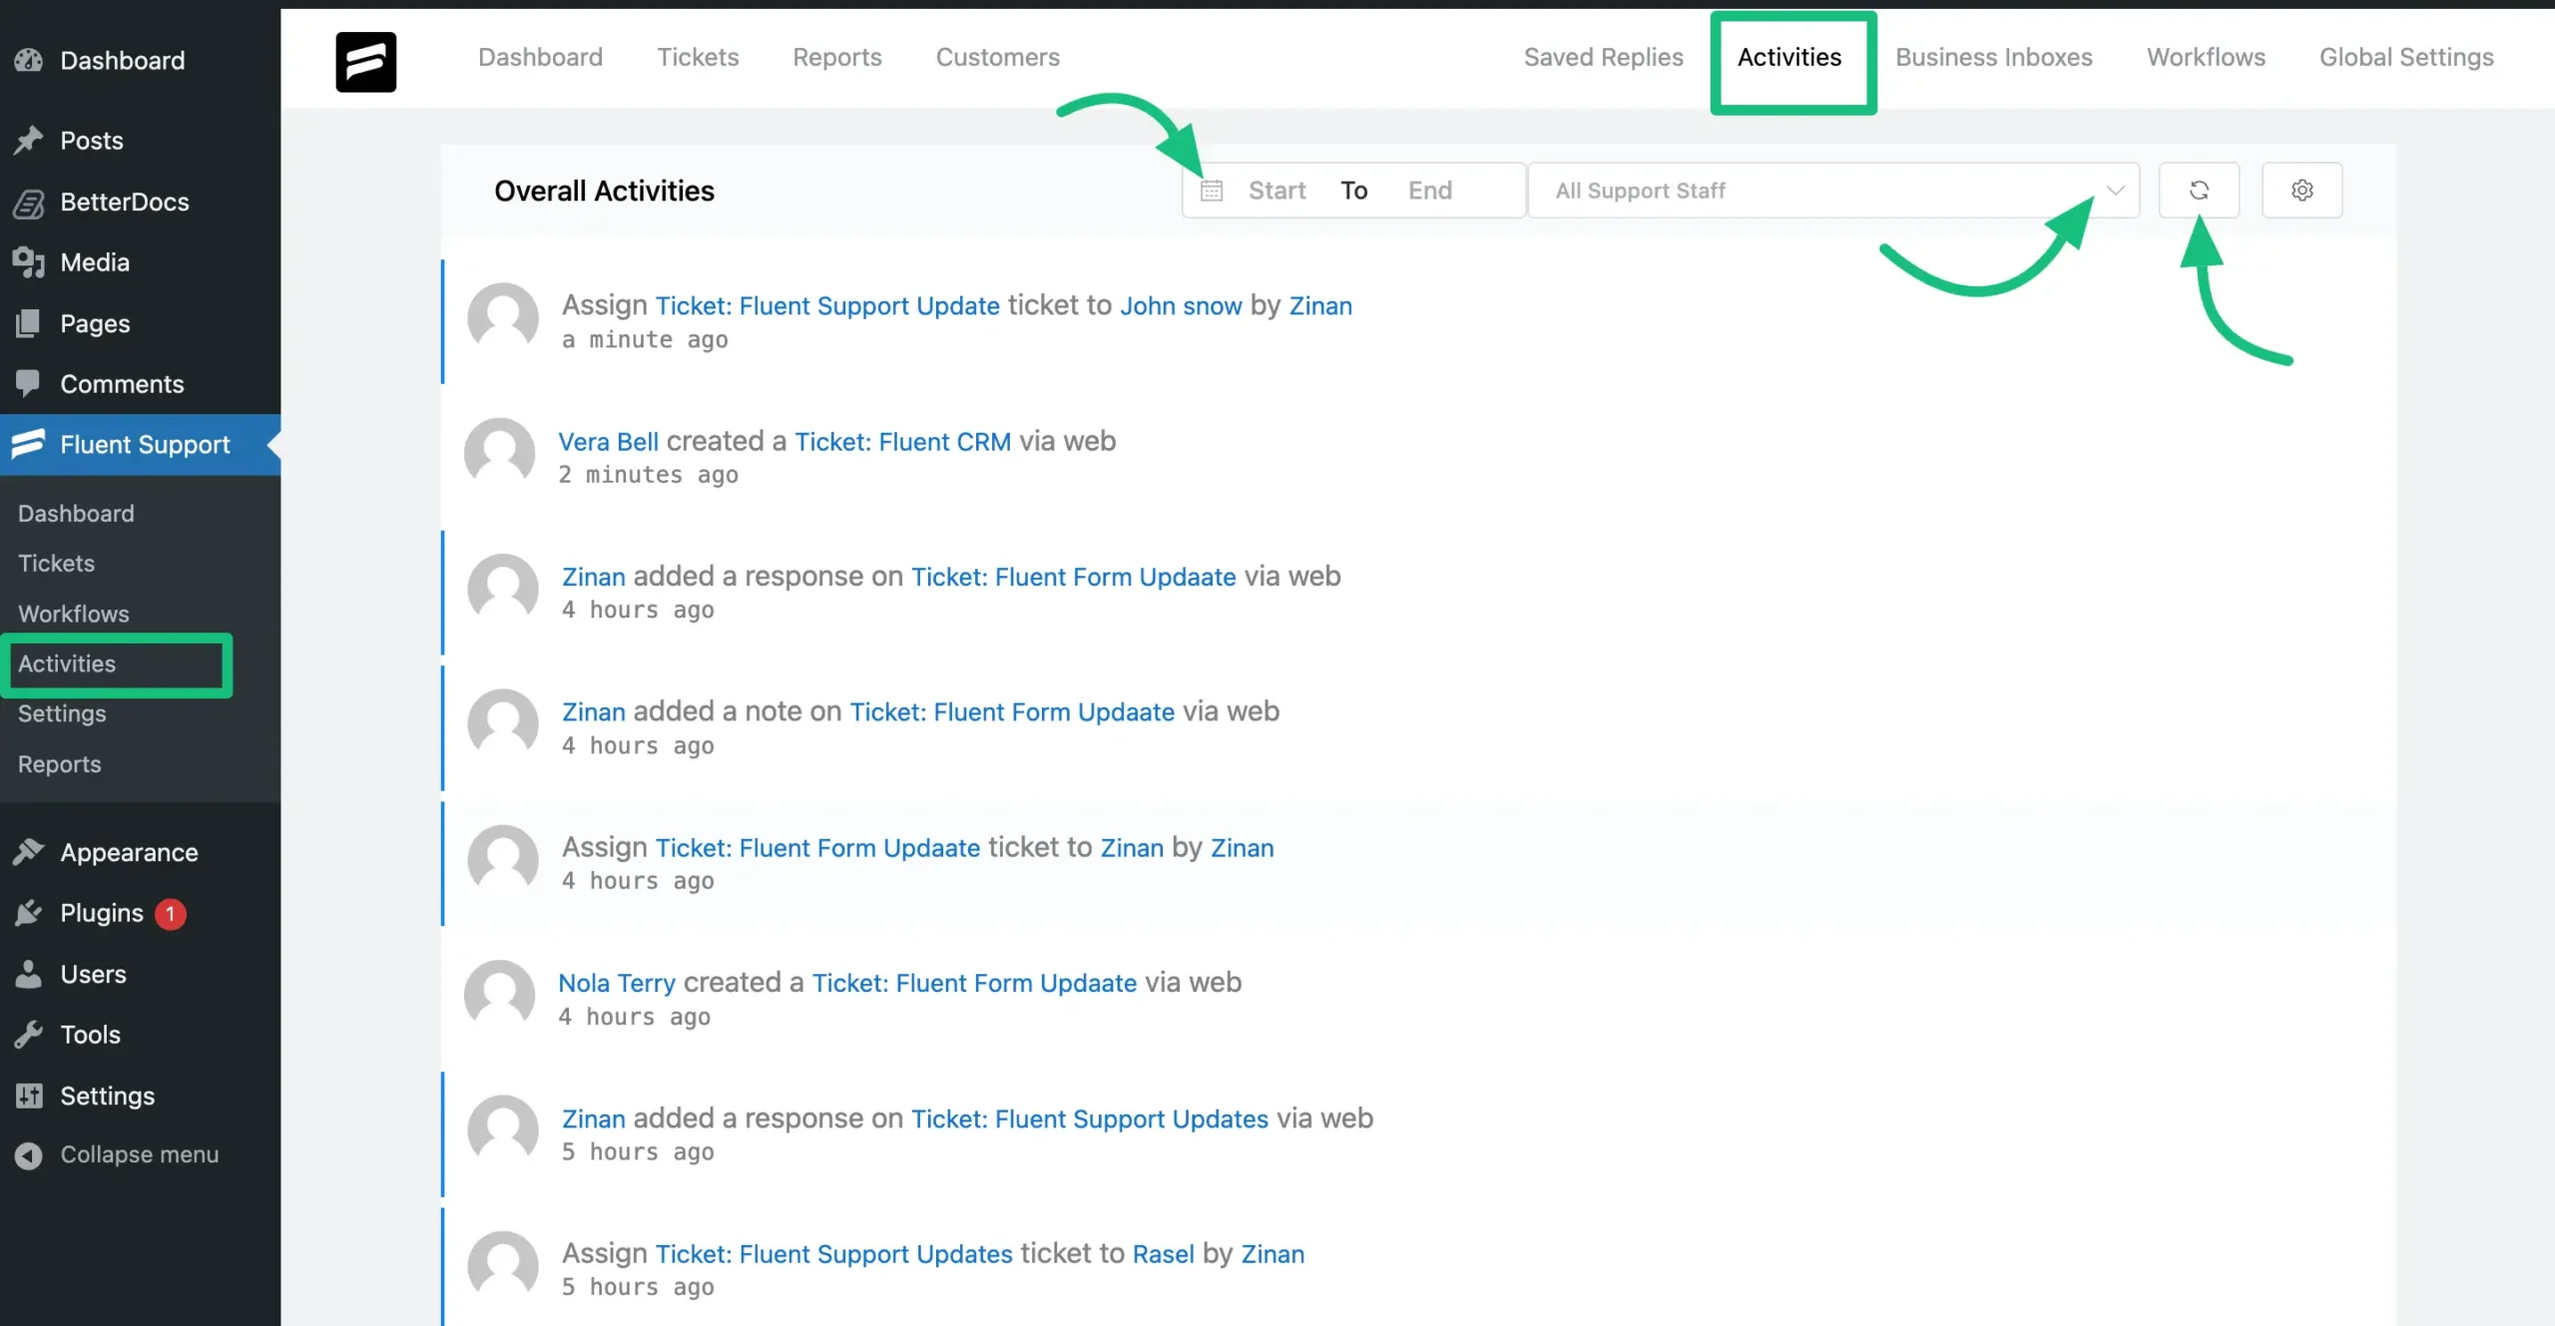
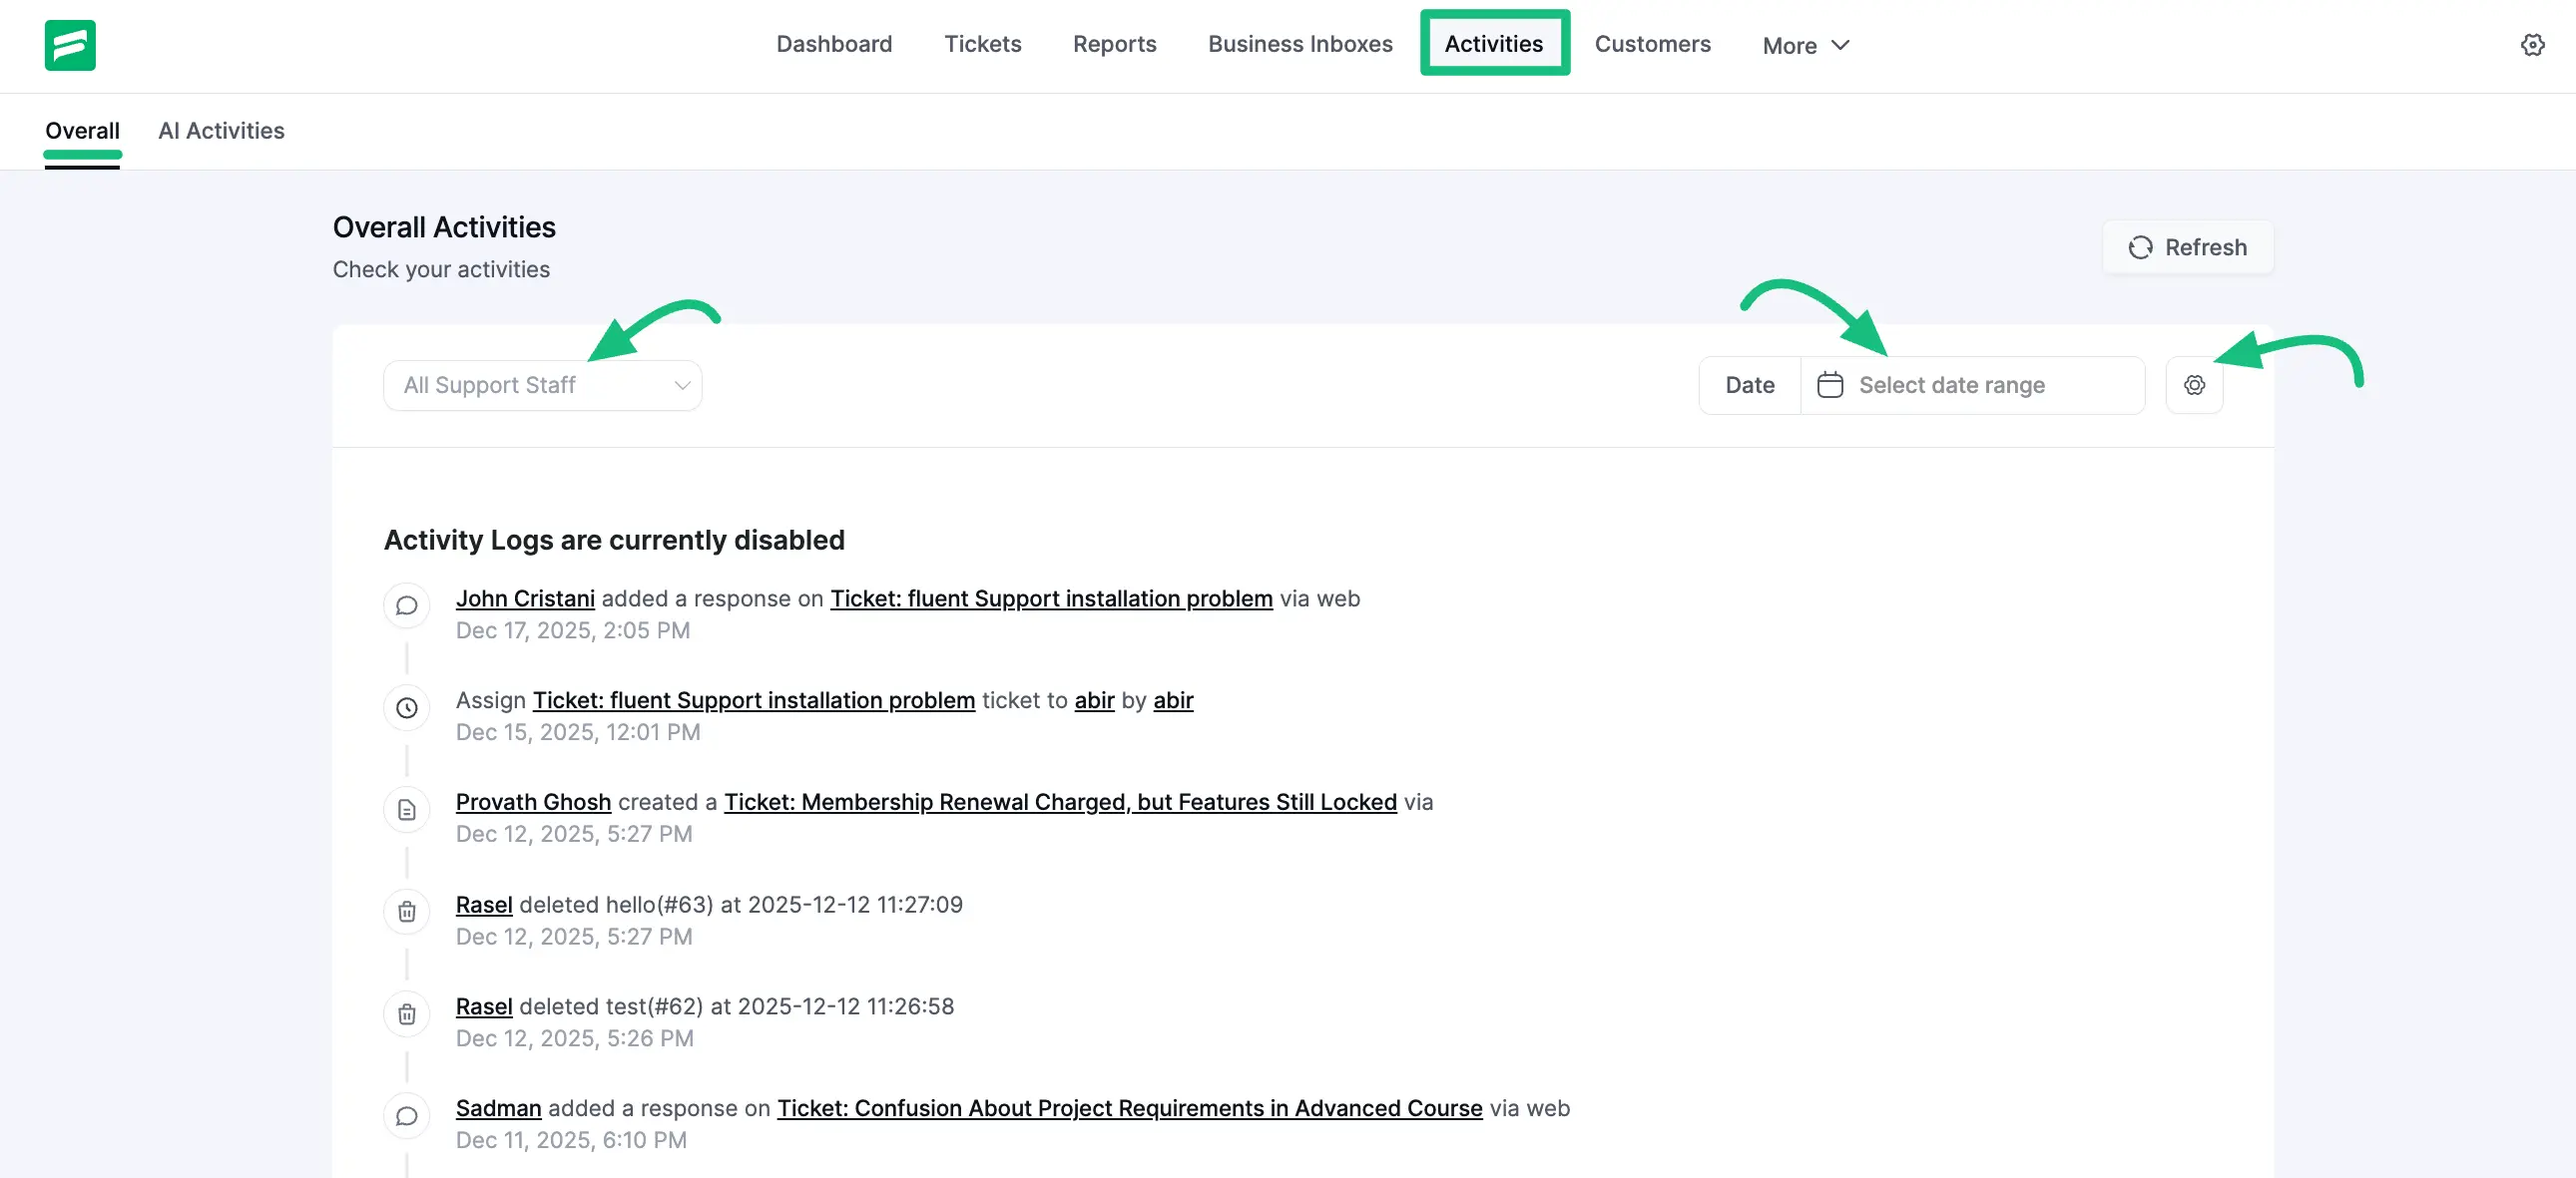
Overall Activities doc write

diff --git a/.vitepress/config.js b/.vitepress/config.js
@@ -159,7 +159,6 @@ export default defineConfig({
         text: 'Reports & Analytics',
         collapsed: true,
         items: [
-          { text: 'Dashboard Overview', link: '/guide/reports-analytics/dashboard-overview' },
           { text: 'Reports & Statistics', link: '/guide/reports-analytics/reports-and-stats' },
           { text: 'Overall Activities', link: '/guide/reports-analytics/overall-activities' },
           { text: 'Dynamic Dashboard', link: '/guide/reports-analytics/dynamic-dashboard' },

diff --git a/guide/reports-analytics/overall-activities.md b/guide/reports-analytics/overall-activities.md
@@ -4,26 +4,56 @@ The **“Activities”** is another awesome feature of Fluent Support that lets 
 
 ## An Overview of Activities
 
-You will find the “Activities” option from the top-right menu on your dashboard. This will display a timeline of overall activities (who created, replied to, or closed any ticket) in your support portal.
+You will find the **Activities** option in the top navigation menu of your dashboard. Clicking this opens the activity log, which is divided into two tabs: **Overall** and **AI Activities**.
 
-  * In this section, you can utilize the **Date** filter to view ticket statistics for a specific period.
-  * Also, you can use the **All Support Stuff** filter to select the individual agent’s ticket statistics you want to view.
-  * There, you will find a **Refresh** icon in the top right corner, use it to update ticket activity.
+### Overall Activities
+
+The **Overall** tab shows a timeline of actions in your support portal, such as who created, replied to, deleted, or closed a ticket, in the order they happened.
+
+ * **Filter by Agent:** You can use the **All Support Staff** dropdown menu to view ticket statistics for a specific agent.
+ * **Filter by Date:** Use the **Date** filter to view activities within a specific time range.
+ * **Refresh:** A Refresh button is located in the top right corner to update the activity feed instantly.
 
 Also, whenever an agent assigns a ticket, it will be displayed in the overall activities.
 
 ![Activities from Fluent Support Dashboard](/guide/public/images/reports-analytics/overall-activities/activities-dashboard-scaled-1.webp)
 
-### Settings
+### Activity Log Settings
 
-In the “Activities” section, you will find another **Settings** icon next to the Refresh button.
+You will find a **Settings** (Gear Icon) located next to the **Date filter** on the tabs. This allows you to configure how logs are handled.
 
-  * in this option, you can set the duration for automatically deleting activity logs.
-  * Also, you can **Disable Activity Logs** if you don’t want to track the activities of your support agents.
-  * Plus, you can select whether you want to open tickets on the existing page or a new tab.
-  * After making any changes, ensure you click on the **Update Settings** button. Otherwise, the changes won’t appear.
+In the Activity Log Settings, you have the following options:
+
+ * **Automatically delete activity logs after days:** Enter a number (e.g., 14) to set how long logs should be kept before being automatically deleted.
+ * **Disable Activity Logs:** Check this box if you do not want to track support agent activities at all.
+ * **Open Ticket in New Tab:** Enable this option if you want ticket links within the activity log to open in a new browser tab.
+
+After making any changes, ensure you click on the **Update Settings** button. Otherwise, the changes won’t appear.
+
 
 ![Settings option for customizing the funtion of Activities in Fluent Support](/guide/public/images/reports-analytics/overall-activities/activities-settings-video.gif)
+
+### AI Activities
+
+If you use **AI** features in Fluent Support, you can switch to the **AI Activities** tab to monitor usage. This section provides a detailed table with the following columns:
+
+ * **Agent:** The staff member who used the AI.
+ * **Ticket:** The specific ticket involved.
+ * **Model:** The AI model used for the task.
+ * **Tokens:** The number of tokens consumed.
+ * **Prompt:** The specific prompt used.
+
+![AI Activities from Fluent Support Dashboard](/guide/public/images/reports-analytics/overall-activities/ai-activities-dashboard-scaled-2.webp)
+
+### AI Log Settings
+
+Similarly, you can configure settings specific to AI logs:
+
+ * **Automatically delete AI activity logs after days:** Set a specific duration for retaining AI-related logs.
+
+After making any changes, ensure you click on the **Update Settings** button to save your preferences.
+
+![AI Activities from Fluent Support Dashboard](/guide/public/images/reports-analytics/overall-activities/ai-activity-log-settings.webp)
 
 ### Pagination 
 
